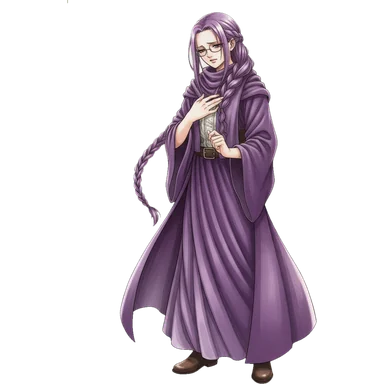
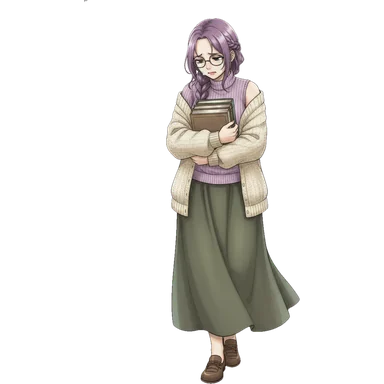
フミを作り直し（本の虫＋カーディガン、表情と構えの差分）
Claude-Session: https://claude.ai/code/session_019xnD9zf1824211ZEpgvXov

Changed region(s): [[0.3125, 0.0312, 0.8438, 1.0]]

diff --git a/habit-check/public/sw.js b/habit-check/public/sw.js
@@ -1,5 +1,5 @@
 // 画面ファイルだけをキャッシュする（/api は常にネットワーク）
-const CACHE = "habit-check-v14";
+const CACHE = "habit-check-v15";
 const SHELL = ["./", "index.html", "app.js", "aibou.js", "aibou-sprites.js", "art-index.js", "theater.js", "theater-gl.js", "theater-script.js", "theater-speakers.js", "theater-stage.js", "style.css", "manifest.webmanifest", "icons/icon-192.png", "img/walnut.jpg", "img/oak.jpg"];
 
 self.addEventListener("install", (e) => {
